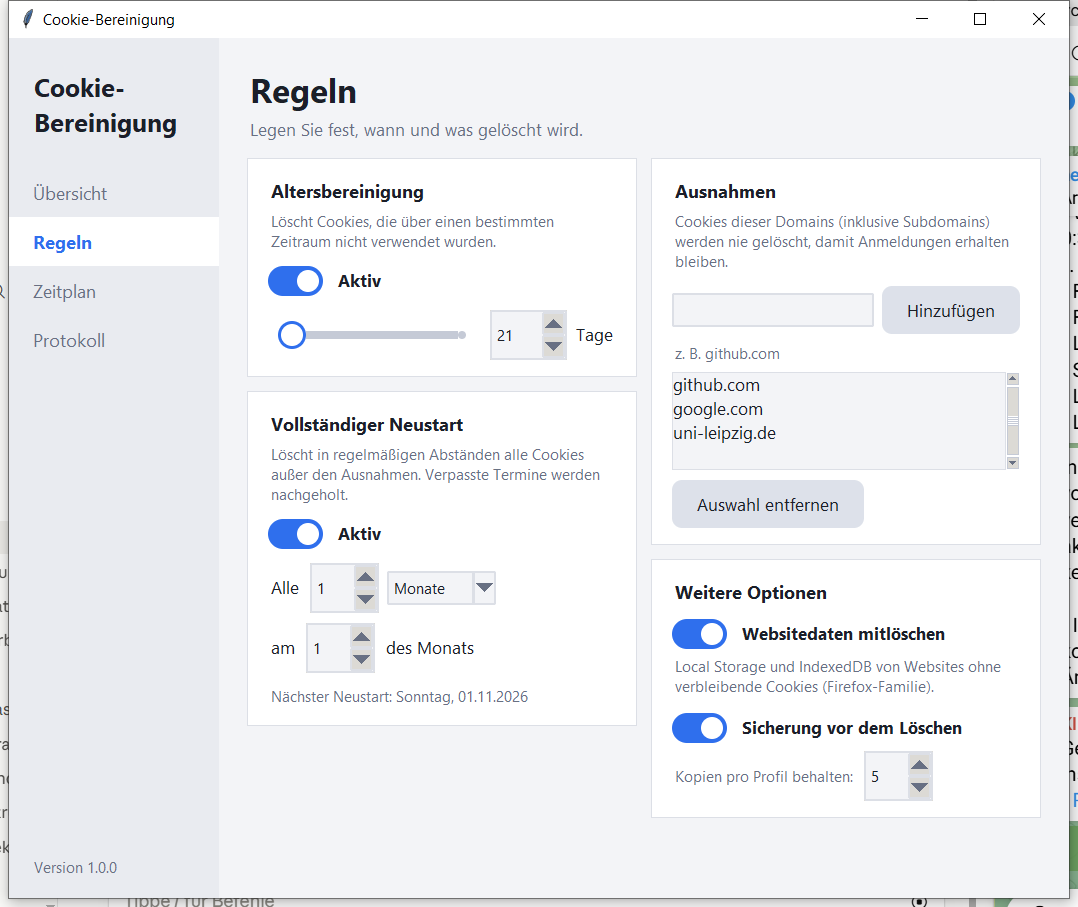
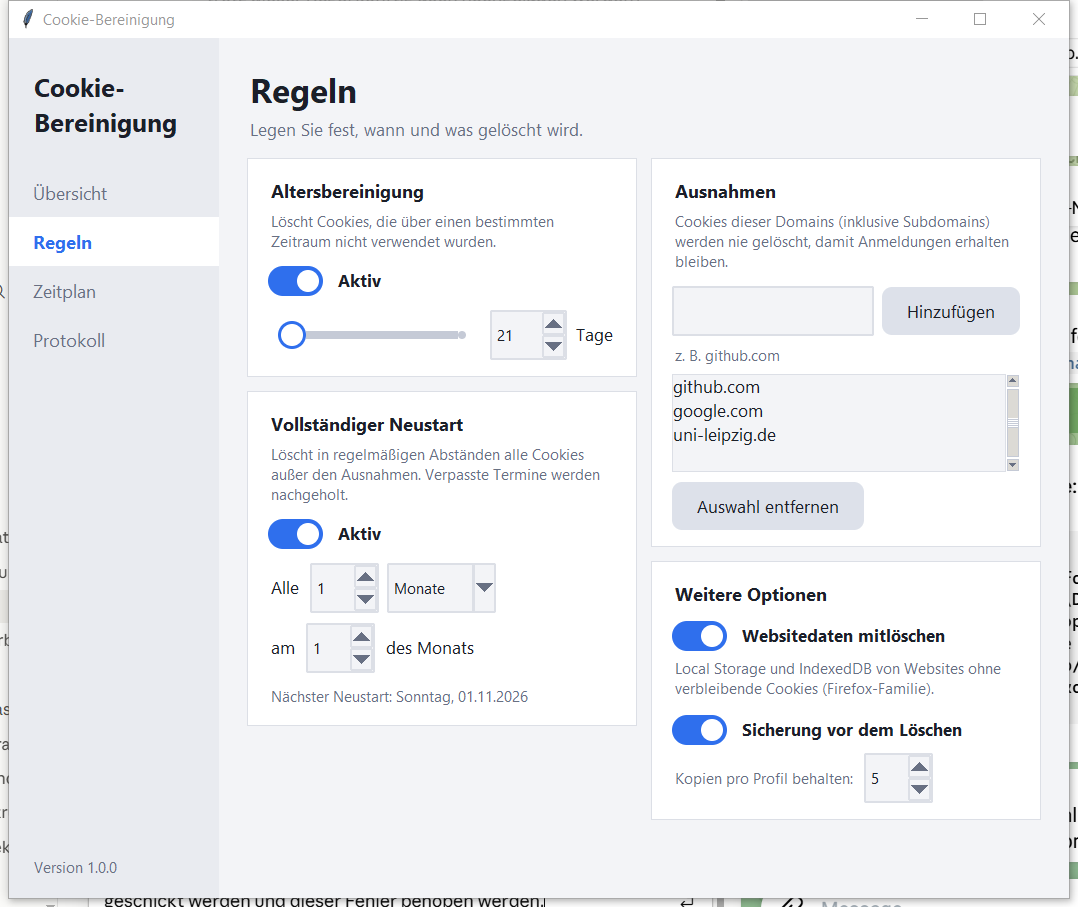
Schalter für alle Browser, direkte Zahleneingabe, einheitliche Feldhöhen

diff --git a/cookie_cleaner/gui.py b/cookie_cleaner/gui.py
@@ -64,8 +64,46 @@ class Page(tk.Frame):
         pass
 
 
-def spinbox(master, variable, low, high, width=5, command=None) -> ttk.Spinbox:
-    return ttk.Spinbox(master, from_=low, to=high, textvariable=variable, width=width, state="readonly", wrap=False, command=command)
+def spinbox(master, variable, low, high, width=5, step=1, wrap=False, digits=0) -> ttk.Spinbox:
+    """Zahlenfeld mit Pfeilen, in das sich auch direkt tippen lässt; ungültige Eingaben werden beim Verlassen korrigiert."""
+    text = tk.StringVar()
+
+    def formatted(value: int) -> str:
+        return f"{value:0{digits}d}"
+
+    def current() -> int:
+        try:
+            return min(max(int(variable.get()), low), high)
+        except (tk.TclError, ValueError):
+            return low
+
+    def from_variable(*arguments) -> None:
+        if text.get() != formatted(current()):
+            text.set(formatted(current()))
+
+    def from_text(*arguments) -> None:
+        content = text.get()
+        if content.isdigit() and low <= int(content) <= high:
+            value = int(content)
+            variable.set(formatted(value) if isinstance(variable, tk.StringVar) else value)
+
+    def commit(event=None) -> None:
+        from_text()
+        text.set(formatted(current()))
+
+    def allowed(proposed: str) -> bool:
+        return proposed == "" or (proposed.isdigit() and len(proposed) <= len(str(high)))
+
+    box = ttk.Spinbox(
+        master, from_=low, to=high, increment=step, wrap=wrap, textvariable=text, width=width,
+        format=f"%0{digits}.0f" if digits else "%.0f", validate="key", validatecommand=(master.register(allowed), "%P"),
+    )
+    from_variable()
+    variable.trace_add("write", from_variable)
+    text.trace_add("write", from_text)
+    box.bind("<FocusOut>", commit)
+    box.bind("<Return>", commit)
+    return box
 
 
 def safe_integer(variable: tk.Variable, default: int) -> int:
@@ -92,8 +130,11 @@ class OverviewPage(Page):
         self.detected = detect_browsers()
         if not self.detected:
             label(browser_card.body, self.palette, "Es wurden keine unterstützten Browser gefunden.", muted=True).pack(anchor="w")
+        if self.detected:
+            self._all_browsers_row(browser_card.body)
         for definition, profiles in self.detected.items():
             self._browser_row(browser_card.body, definition, profiles)
+        self._sync_all_browsers()
 
         action_card = Card(self, self.palette, "Bereinigung")
         action_card.pack(fill="x", pady=(14, 0))
@@ -126,6 +167,25 @@ class OverviewPage(Page):
         threading.Thread(target=self._count_all, daemon=True).start()
         self.after(100, self._poll)
 
+    def _all_browsers_row(self, master) -> None:
+        row = tk.Frame(master, background=self.palette["surface"])
+        row.pack(fill="x", pady=4)
+        self.all_browsers = tk.BooleanVar()
+        self.syncing_all_browsers = False
+        Switch(row, self.palette, self.all_browsers, command=self._toggle_all_browsers).pack(side="left")
+        label(row, self.palette, "Alle Browser", weight="bold").pack(side="left", padx=(12, 0))
+        tk.Frame(master, height=1, background=self.palette["border"]).pack(fill="x", pady=(6, 4))
+
+    def _toggle_all_browsers(self) -> None:
+        self.syncing_all_browsers = True
+        for variable in self.switches.values():
+            variable.set(self.all_browsers.get())
+        self.syncing_all_browsers = False
+
+    def _sync_all_browsers(self) -> None:
+        if self.detected and not self.syncing_all_browsers:
+            self.all_browsers.set(all(variable.get() for variable in self.switches.values()))
+
     def _browser_row(self, master, definition, profiles) -> None:
         row = tk.Frame(master, background=self.palette["surface"])
         row.pack(fill="x", pady=4)
@@ -133,6 +193,7 @@ class OverviewPage(Page):
         self.switches[definition.key] = variable
         Switch(row, self.palette, variable).pack(side="left")
         self.watch(variable)
+        variable.trace_add("write", lambda *arguments: self._sync_all_browsers())
         label(row, self.palette, definition.name, weight="bold").pack(side="left", padx=(12, 0))
         detail = f"{len(profiles)} Profil" + ("e" if len(profiles) != 1 else "")
         label(row, self.palette, detail, muted=True, size=9).pack(side="left", padx=(10, 0))
@@ -427,9 +488,9 @@ class SchedulePage(Page):
         hour, minute = rule.time.split(":")
         self.hour = tk.StringVar(value=hour)
         self.minute = tk.StringVar(value=minute)
-        ttk.Spinbox(time_row, from_=0, to=23, format="%02.0f", textvariable=self.hour, width=4, state="readonly", wrap=True).pack(side="left", padx=(12, 4))
+        spinbox(time_row, self.hour, 0, 23, width=4, wrap=True, digits=2).pack(side="left", padx=(12, 4))
         label(time_row, self.palette, ":").pack(side="left")
-        ttk.Spinbox(time_row, from_=0, to=59, increment=5, format="%02.0f", textvariable=self.minute, width=4, state="readonly", wrap=True).pack(side="left", padx=(4, 0))
+        spinbox(time_row, self.minute, 0, 59, width=4, step=5, wrap=True, digits=2).pack(side="left", padx=(4, 0))
 
         logon_row = tk.Frame(card.body, background=self.palette["surface"])
         logon_row.pack(fill="x", pady=(16, 0))

diff --git a/cookie_cleaner/widgets.py b/cookie_cleaner/widgets.py
@@ -122,6 +122,22 @@ def shape_image(master: tk.Misc, width: int, height: int, background: str, shape
     return image
 
 
+def _equalize_field_heights(root: tk.Misc, style: ttk.Style) -> None:
+    """Gleicht Eingabe- und Auswahlfelder an die Höhe des Zahlenfelds mit den großen Pfeilen an."""
+    probes = {
+        "TSpinbox": ttk.Spinbox(root, from_=0, to=1, width=2),
+        "TCombobox": ttk.Combobox(root, values=("x",), width=2),
+        "TEntry": ttk.Entry(root, width=2),
+    }
+    heights = {name: probe.winfo_reqheight() for name, probe in probes.items()}
+    target = heights["TSpinbox"]
+    for name in ("TCombobox", "TEntry"):
+        difference = target - heights[name]
+        style.configure(name, padding=(5, 5 + difference // 2, 5, 5 + difference - difference // 2))
+    for probe in probes.values():
+        probe.destroy()
+
+
 def configure_styles(root: tk.Misc, palette: dict[str, str]) -> None:
     style = ttk.Style(root)
     style.theme_use("clam")
@@ -153,6 +169,7 @@ def configure_styles(root: tk.Misc, palette: dict[str, str]) -> None:
             selectbackground=[("readonly", palette["background"])],
             selectforeground=[("readonly", palette["text"])],
         )
+    _equalize_field_heights(root, style)
     root.option_add("*TCombobox*Listbox.background", palette["surface"])
     root.option_add("*TCombobox*Listbox.foreground", palette["text"])
     root.option_add("*TCombobox*Listbox.selectBackground", palette["accent"])
